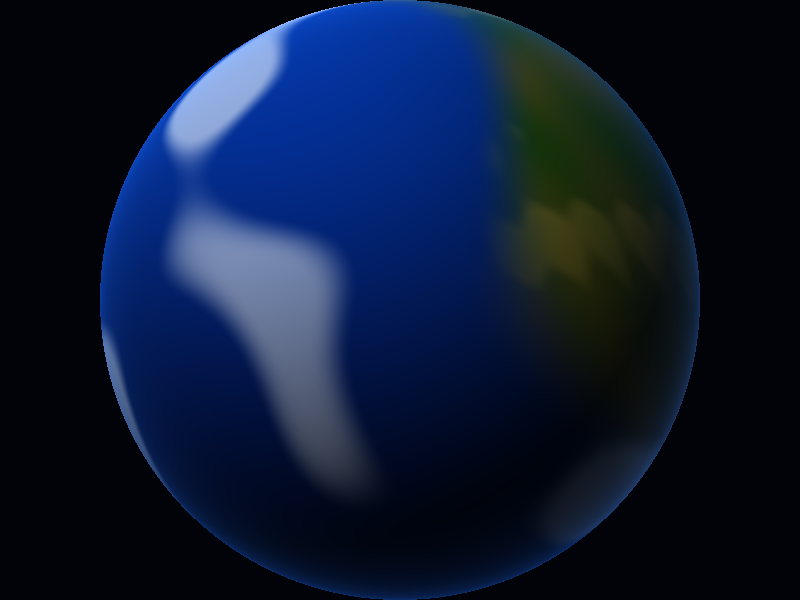
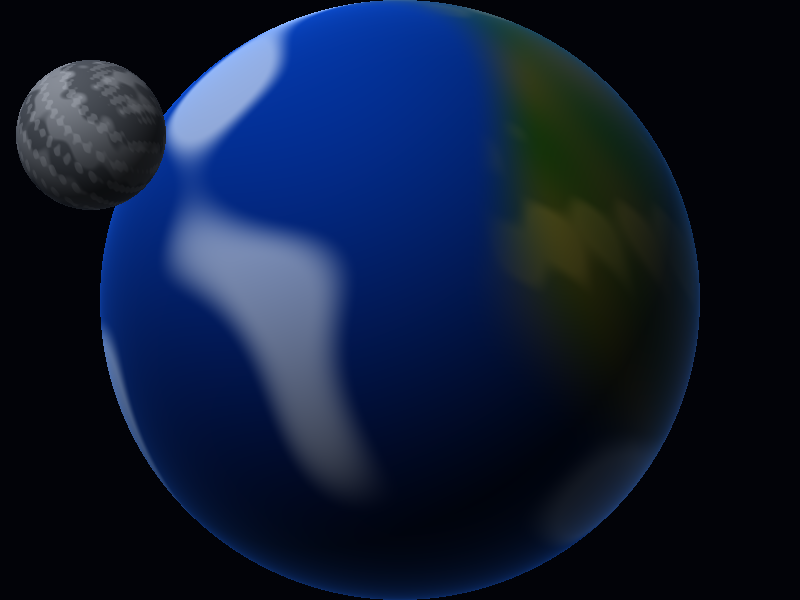
cambios finales

Changed region(s): [[0.0, 0.09, 0.2188, 0.36]]

diff --git a/src/renderer.rs b/src/renderer.rs
@@ -74,10 +74,28 @@ fn write_depth_tested(frame: &mut FrameBuffer, x: usize, y: usize, depth: f32, c
 pub fn render_shader(frame: &mut FrameBuffer, shader: &dyn Shader) {
     frame.clear(Vec3::new(0.008, 0.012, 0.035));
 
+    render_shader_object(frame, shader, Vec3::ZERO, 1.0);
+}
+
+/// Renders a sphere and a smaller procedural moon in front of it.
+pub fn render_shader_with_moon(
+    frame: &mut FrameBuffer,
+    shader: &dyn Shader,
+    moon_shader: &dyn Shader,
+) {
+    render_shader(frame, shader);
+
+    // The moon is a second sphere, placed slightly toward the camera so that
+    // the depth buffer also handles the occasional overlap with the Earth.
+    let moon_center = Vec3::new(-1.03, 0.55, 0.85);
+    render_shader_object(frame, moon_shader, moon_center, 0.25);
+}
+
+fn render_shader_object(frame: &mut FrameBuffer, shader: &dyn Shader, center: Vec3, radius: f32) {
     for y in 0..frame.height {
         for x in 0..frame.width {
             let ray = ray_for_pixel(frame, x, y);
-            let Some((surface_point, normal)) = intersect_unit_sphere(ray) else {
+            let Some((surface_point, normal)) = intersect_sphere(ray, center, radius) else {
                 continue;
             };
 
@@ -89,7 +107,10 @@ pub fn render_shader(frame: &mut FrameBuffer, shader: &dyn Shader) {
             let longitude = normal.x.atan2(normal.z) / (std::f32::consts::TAU) + 0.5;
 
             let sample = SurfaceSample {
-                position: surface_point,
+                // The main sphere keeps its original surface coordinates;
+                // the moon uses normalized local coordinates so its shader
+                // does not depend on its position in the scene.
+                position: if radius == 1.0 { surface_point } else { normal },
                 normal,
                 view_direction,
                 light_direction,
@@ -116,10 +137,10 @@ pub fn render_shader_with_saturn_rings(frame: &mut FrameBuffer, shader: &dyn Sha
     }
 }
 
-fn intersect_unit_sphere(ray: Ray) -> Option<(Vec3, Vec3)> {
-    let sphere_to_ray = ray.origin;
+fn intersect_sphere(ray: Ray, center: Vec3, radius: f32) -> Option<(Vec3, Vec3)> {
+    let sphere_to_ray = ray.origin - center;
     let b = sphere_to_ray.dot(ray.direction);
-    let c = sphere_to_ray.dot(sphere_to_ray) - 1.0;
+    let c = sphere_to_ray.dot(sphere_to_ray) - radius * radius;
     let discriminant = b * b - c;
 
     if discriminant < 0.0 {
@@ -132,7 +153,8 @@ fn intersect_unit_sphere(ray: Ray) -> Option<(Vec3, Vec3)> {
     }
 
     let surface_point = ray.origin + ray.direction * near_distance;
-    Some((surface_point, surface_point.normalized()))
+    let normal = (surface_point - center).normalized();
+    Some((surface_point, normal))
 }
 
 fn render_saturn_ring_at_pixel(frame: &mut FrameBuffer, x: usize, y: usize, ray: Ray) {

diff --git a/src/shader.rs b/src/shader.rs
@@ -1,4 +1,4 @@
-//! Procedural shaders for the six selected bodies.
+//! Procedural shaders for the six selected bodies and Earth's moon.
 //!
 //! None of these shaders reads an image. Every visible detail is generated
 //! from the surface sample and mathematical functions.
@@ -120,6 +120,37 @@ impl Shader for CelestialShader {
             Planet::Saturn => shade_saturn(sample),
             Planet::Uranus => shade_uranus(sample),
         }
+    }
+}
+
+/// Moon: a procedural gray surface with maria, crater fields and a cold rim.
+/// It is rendered as a second sphere beside the Earth; it does not use a
+/// texture or material.
+pub struct MoonShader;
+
+impl Shader for MoonShader {
+    fn shade(&self, sample: SurfaceSample) -> Vec3 {
+        let position = sample.position;
+
+        // Layer 1: a cool gray base gradient.
+        let base = Vec3::new(0.20, 0.22, 0.25).lerp(
+            Vec3::new(0.66, 0.68, 0.72),
+            (sample.latitude * 0.65 + 0.18).clamp(0.0, 1.0),
+        );
+
+        // Layer 2: broad maria generated from low-frequency waves.
+        let maria_signal = procedural_noise(position * 2.4 + Vec3::new(2.0, 0.0, 4.0));
+        let maria_mask = smoothstep(0.46, 0.66, maria_signal);
+        let with_maria = base.lerp(Vec3::new(0.10, 0.12, 0.15), maria_mask * 0.48);
+
+        // Layer 3: crater-like surface variation at a smaller scale.
+        let crater_signal = procedural_noise(position * 7.0 + Vec3::new(5.0, 1.0, 3.0));
+        let crater_mask = smoothstep(0.58, 0.80, crater_signal);
+        let with_craters = with_maria.lerp(Vec3::new(0.78, 0.80, 0.84), crater_mask * 0.28);
+
+        // Layer 4: diffuse lighting and a subtle atmospheric-looking rim.
+        let lit = apply_diffuse(with_craters, sample, 0.22);
+        lit + Vec3::new(0.34, 0.42, 0.58) * sample.rim.powf(2.8) * 0.16
     }
 }
 

diff --git a/src/main.rs b/src/main.rs
@@ -3,8 +3,10 @@ mod renderer;
 mod shader;
 
 use minifb::{Key, KeyRepeat, Window, WindowOptions};
-use renderer::{render_shader, render_shader_with_saturn_rings, FrameBuffer};
-use shader::{CelestialShader, Planet};
+use renderer::{
+    render_shader, render_shader_with_moon, render_shader_with_saturn_rings, FrameBuffer,
+};
+use shader::{CelestialShader, MoonShader, Planet};
 use std::{env, fs};
 
 const WIDTH: usize = 800;
@@ -67,7 +69,9 @@ fn main() -> Result<(), Box<dyn std::error::Error>> {
 
 fn render_planet(frame: &mut FrameBuffer, planet: Planet) {
     let shader = CelestialShader::new(planet);
-    if planet.is_saturn() {
+    if planet == Planet::Earth {
+        render_shader_with_moon(frame, &shader, &MoonShader);
+    } else if planet.is_saturn() {
         render_shader_with_saturn_rings(frame, &shader);
     } else {
         render_shader(frame, &shader);

diff --git a/README.md b/README.md
@@ -1,6 +1,6 @@
 # Solar System Shaders
 
-Renderer de software escrito completamente en Rust. Cada cuerpo celeste se dibuja como una esfera calculada píxel por píxel y su apariencia se genera con shaders procedurales, sin texturas ni materiales.
+Renderer de software escrito completamente en Rust. Cada cuerpo celeste se dibuja píxel por píxel y su apariencia se genera con shaders procedurales: no se utilizan texturas ni materiales.
 
 ## Ejecutar
 
@@ -8,7 +8,7 @@ Renderer de software escrito completamente en Rust. Cada cuerpo celeste se dibuj
 cargo run
 ```
 
-También se pueden generar todas las capturas con:
+Para generar o regenerar todas las capturas que aparecen abajo:
 
 ```powershell
 cargo run -- --all-screenshots
@@ -19,25 +19,49 @@ cargo run -- --all-screenshots
 - `1` Sol
 - `2` Venus
 - `3` Neptuno
-- `4` Tierra
-- `5` Saturno
+- `4` Tierra + Luna
+- `5` Saturno + anillos
 - `6` Urano
-- `Left/Right Arrow` cambiar de planeta
-- `S` guardar screenshot
+- `Left/Right Arrow` cambiar de cuerpo celeste
+- `S` guardar la captura del cuerpo actual
 - `Esc` cerrar
 
-## Shaders
+## Shaders y efectos
 
-Los shaders usan gradientes, bandas, ondas `sin`, ruido procedural, `smoothstep`, iluminación difusa y efectos de borde. La Tierra utiliza capas para océanos, continentes, terreno, nubes y atmósfera. Saturno tiene un modelo procedural de anillos separado y prueba de profundidad.
+Todos los patrones visibles se calculan a partir de la posición, la normal, la iluminación y funciones matemáticas (`sin`, ruido procedural, `smoothstep`, gradientes y efectos de borde).
 
-La iluminación de los planetas usa una luz direccional fija con sombreado difuso. El Sol es emisivo y se muestra con capas de temperatura, convección, filamentos de plasma y brillo de borde.
+- **Sol:** gradiente de temperatura, células de convección, filamentos de plasma y brillo emisivo.
+- **Venus:** gradiente dorado, bandas de nubes, streaks atmosféricos y borde cálido.
+- **Neptuno:** base azul, bandas, variación de nubes y borde atmosférico frío.
+- **Tierra:** océanos, continentes, variación de terreno, nubes y atmósfera.
+- **Saturno:** bandas doradas, turbulencia, zona ecuatorial, borde cálido y anillos procedurales.
+- **Urano:** gradiente cian, bandas sutiles, bruma polar y borde frío.
+- **Luna:** segunda esfera junto a la Tierra con gradiente gris, mares lunares y cráteres procedurales.
 
-## Resultados
+Saturno se renderiza con un modelo de anillos generado por código y una prueba de profundidad. La Tierra se renderiza junto a una segunda esfera para demostrar la luna, también sin texturas.
+
+## Evidencia de la rúbrica
+
+| Criterio | Evidencia en el proyecto |
+|---|---|
+| 3 cuerpos requeridos | Sol, Tierra y Saturno |
+| Complejidad de shaders | Cada cuerpo tiene al menos 4 capas que afectan el color; la Tierra tiene 5 |
+| 3 planetas extra | Venus, Neptuno y Urano |
+| Sistema de anillos | Anillos procedurales de Saturno con bandas y depth test |
+| Luna | `MoonShader` renderizado junto a la Tierra |
+
+La implementación cubre todos los criterios técnicos de la rúbrica; la parte de creatividad queda sujeta a la evaluación subjetiva del diseño.
+
+## Capturas renderizadas
+
+### Sol, Venus y Neptuno
 
 | Sol | Venus | Neptuno |
 |---|---|---|
-| ![Sol](screenshots/sun.png) | ![Venus](screenshots/venus.png) | ![Neptuno](screenshots/neptune.png) |
+| ![Sol renderizado](screenshots/sun.png) | ![Venus renderizado](screenshots/venus.png) | ![Neptuno renderizado](screenshots/neptune.png) |
 
-| Tierra | Saturno | Urano |
+### Tierra con luna, Saturno con anillos y Urano
+
+| Tierra + Luna | Saturno + anillos | Urano |
 |---|---|---|
-| ![Tierra](screenshots/earth.png) | ![Saturno](screenshots/saturn.png) | ![Urano](screenshots/uranus.png) |
+| ![Tierra con luna renderizada](screenshots/earth.png) | ![Saturno con anillos renderizado](screenshots/saturn.png) | ![Urano renderizado](screenshots/uranus.png) |
